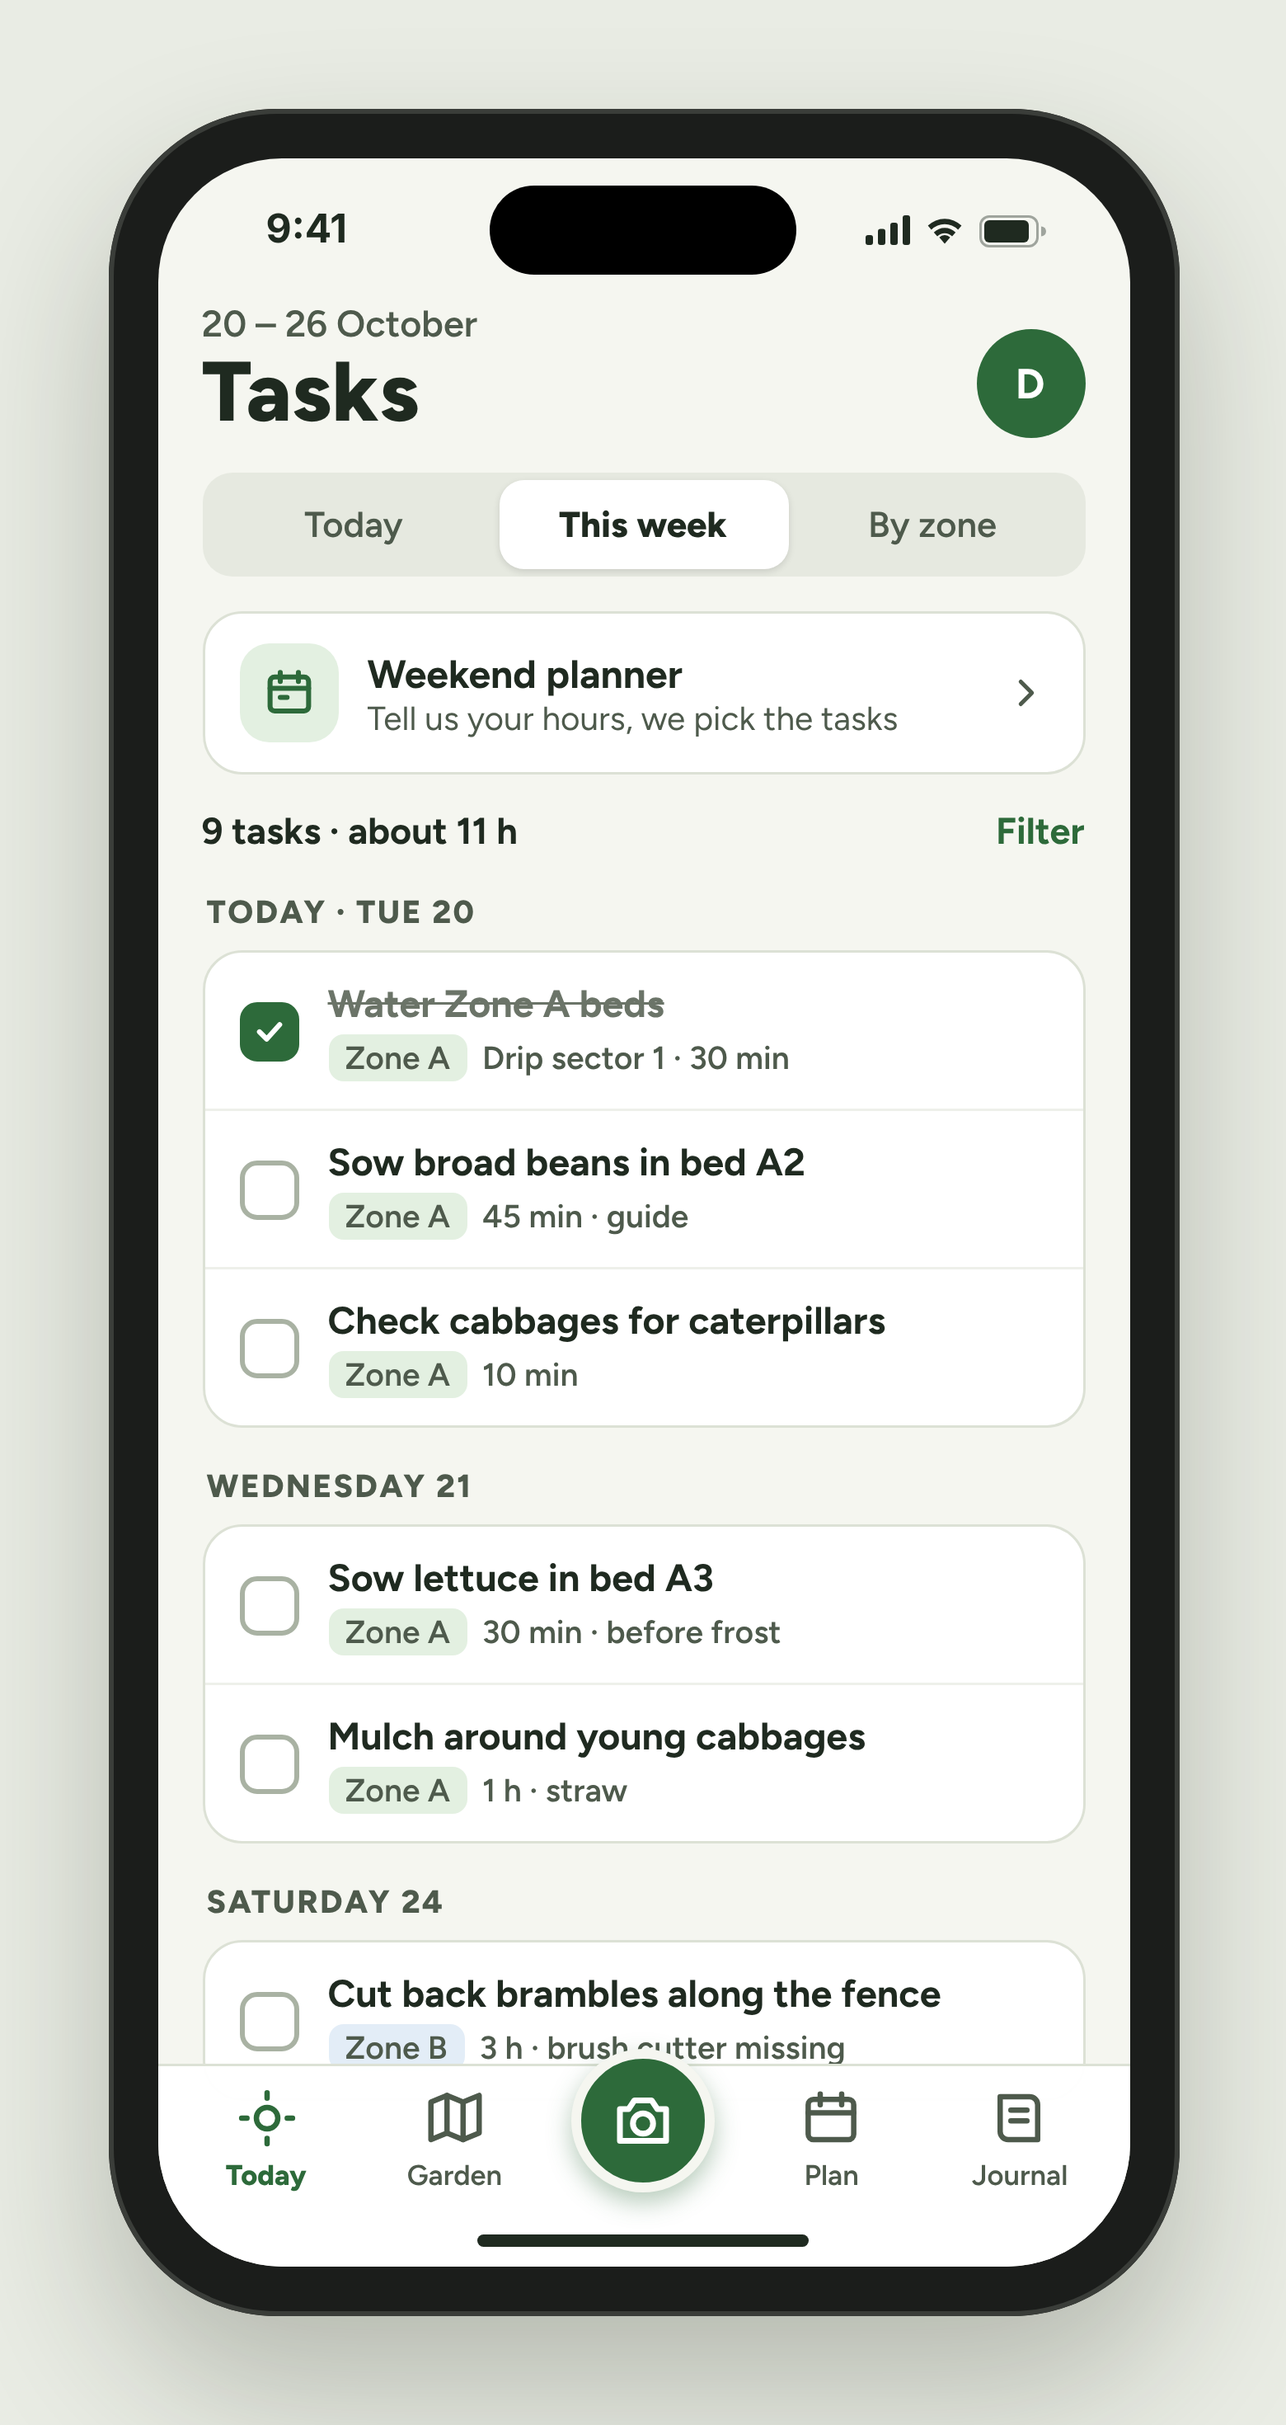
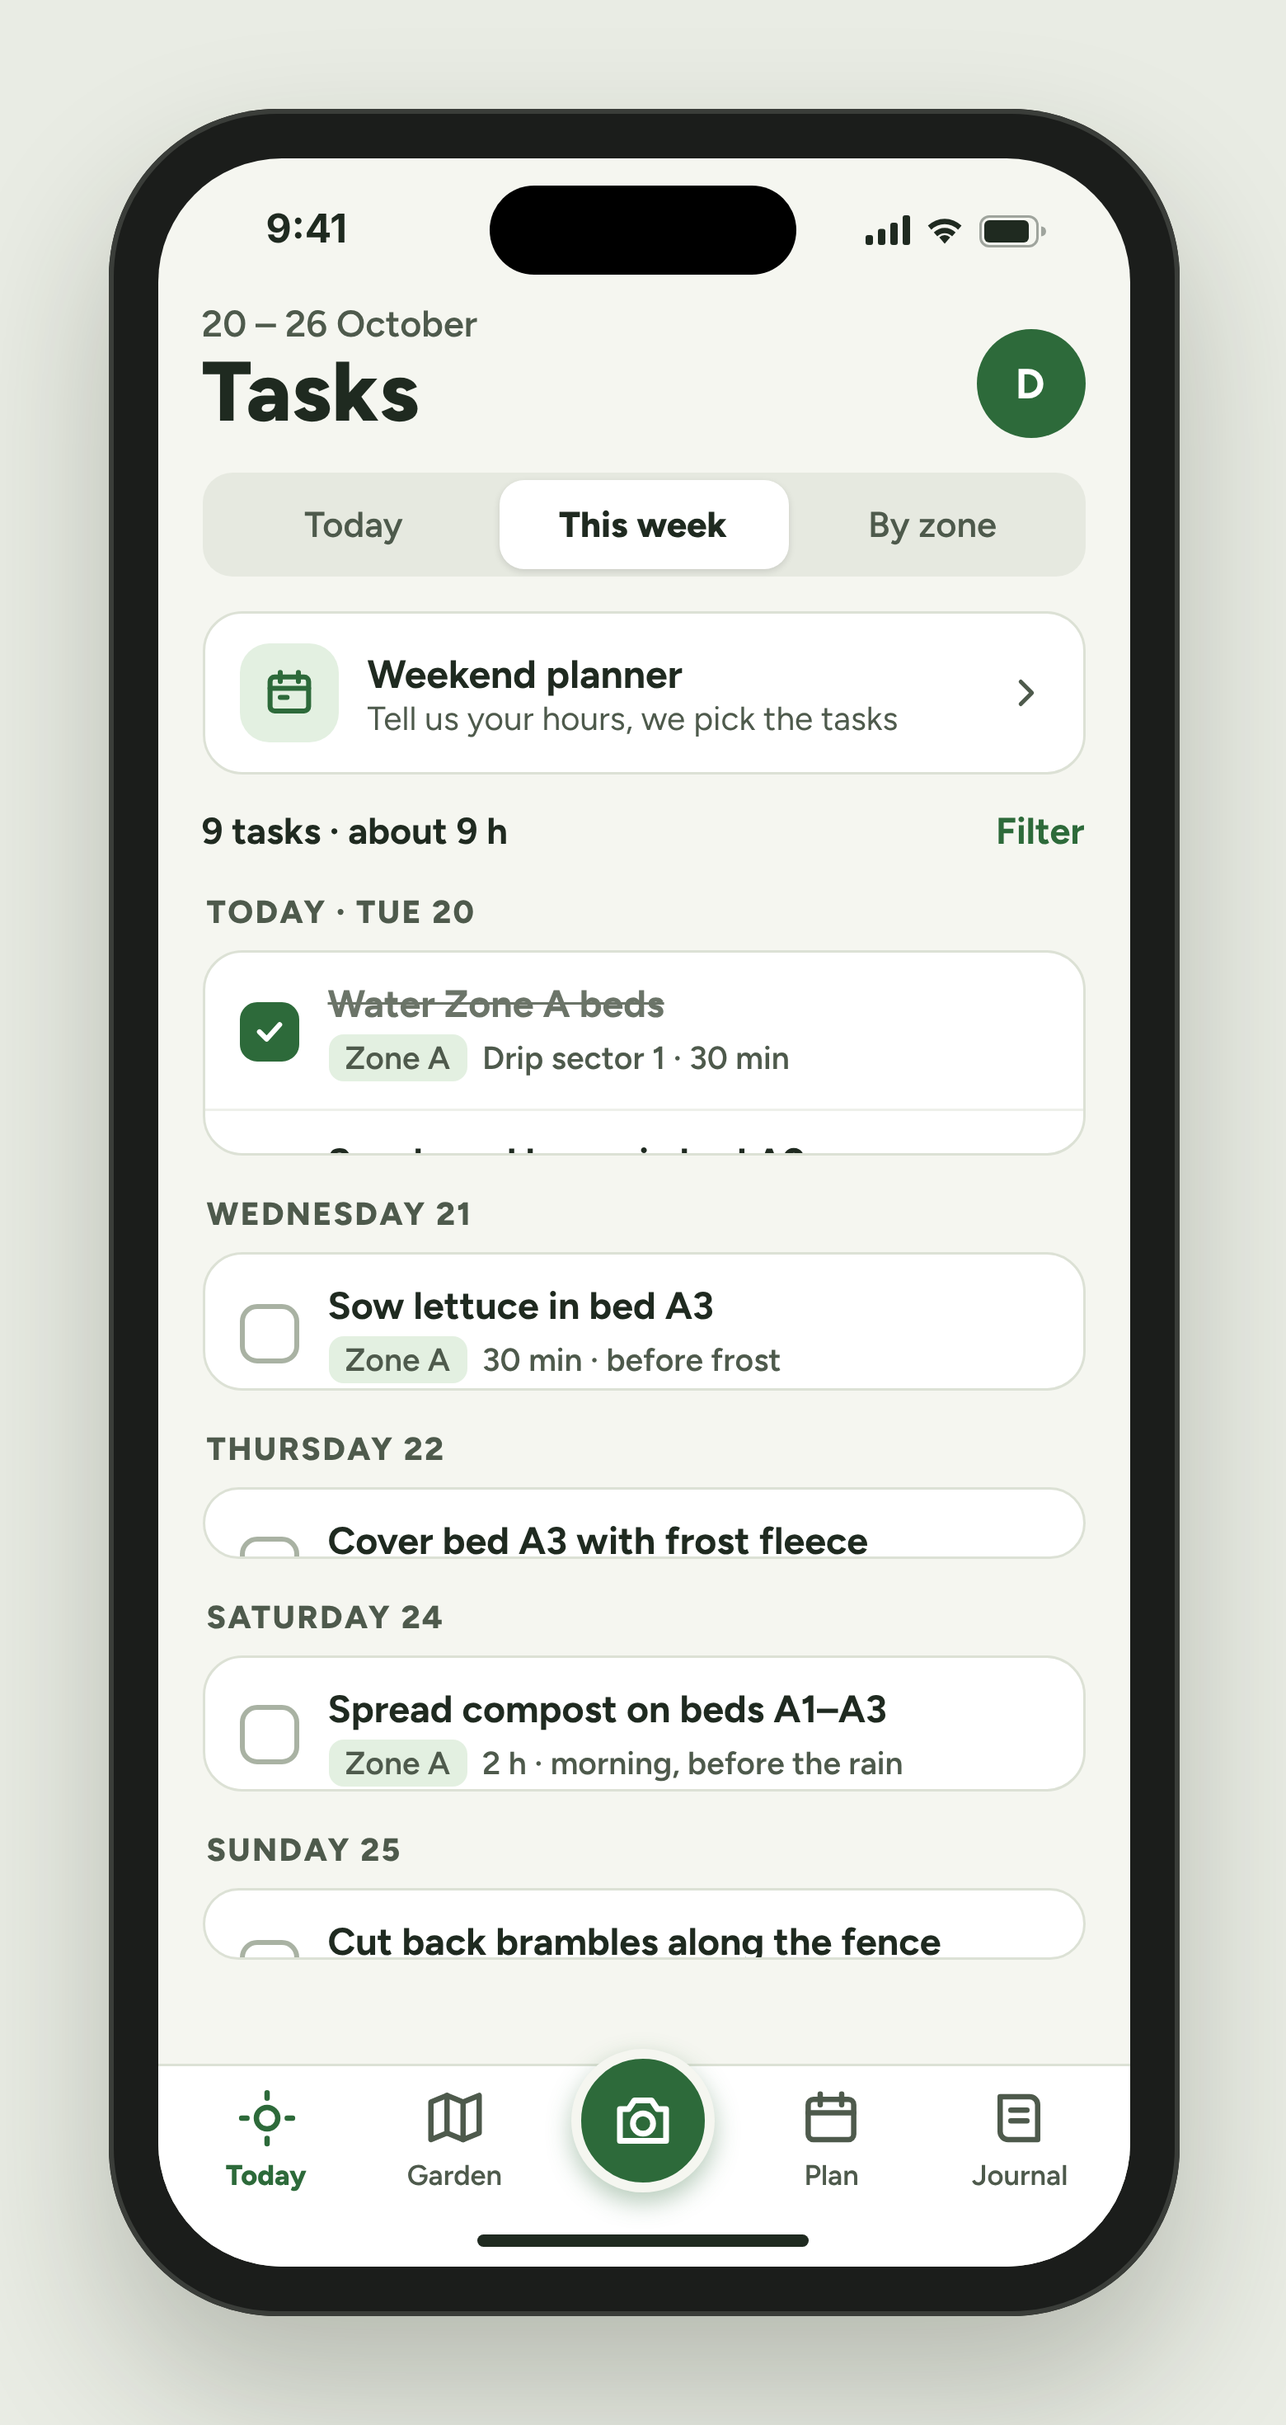
Design: B2 Tasks completed (full week, consistent with B4) with full-length render
Claude-Session: https://claude.ai/code/session_015NynAjU4naPZwzmeuGazot

Changed region(s): [[0.1538, 0.4643, 0.7385, 0.8667], [0.3692, 0.3405, 0.4, 0.3714]]

diff --git a/design/source/B2-tasks-full.html b/design/source/B2-tasks-full.html
@@ -1,0 +1,126 @@
+<!doctype html>
+<html lang="en">
+<head>
+<meta charset="utf-8">
+<title>B2 Tasks</title>
+<link href="https://fonts.googleapis.com/css2?family=Figtree:wght@400;500;600;700;800&display=swap" rel="stylesheet">
+<link rel="stylesheet" href="frame.css">
+<style>
+  .content { position: absolute; top: 54px; left: 0; right: 0; bottom: 0; padding: 4px 18px 0; display: flex; flex-direction: column; gap: 16px; overflow: hidden; }
+  .head { display: flex; justify-content: space-between; align-items: flex-end; }
+  .date { font-size: 15px; font-weight: 600; color: var(--muted); }
+  h1 { margin: 0; font-size: 34px; font-weight: 800; line-height: 1.1; }
+  .avatar { width: 44px; height: 44px; border-radius: 999px; background: var(--green); color: #fff; display: flex; align-items: center; justify-content: center; font-size: 17px; font-weight: 700; }
+  .card { background: #fff; border: 1px solid var(--line); border-radius: 16px; padding: 14px 16px; }
+  .weather { display: flex; align-items: center; gap: 14px; }
+  .alert { background: var(--orange-soft); border: 1px solid #F3C99A; border-radius: 16px; padding: 14px 16px; display: flex; flex-direction: column; gap: 8px; }
+  .alert .t { font-size: 16px; font-weight: 700; color: #7A3A08; display: flex; gap: 10px; align-items: center; }
+  .alert p { margin: 0; font-size: 14.5px; color: #5C3A1A; line-height: 1.45; }
+  .alert .go { align-self: flex-start; background: var(--orange); color: #fff; font-size: 15px; font-weight: 700; padding: 0 16px; height: 44px; border-radius: 11px; display: flex; align-items: center; }
+  .sec { display: flex; justify-content: space-between; align-items: baseline; }
+  h2 { margin: 0; font-size: 21px; font-weight: 800; }
+  .link { font-size: 15px; font-weight: 700; color: var(--green); }
+  .chip { font-size: 12.5px; font-weight: 700; padding: 3px 9px; border-radius: 999px; }
+  .meta { font-size: 13px; font-weight: 600; color: var(--muted); }
+  .action { display: flex; flex-direction: column; gap: 9px; }
+  .action .title { font-size: 17px; font-weight: 700; line-height: 1.3; }
+  .action .sub { font-size: 14px; color: var(--muted); line-height: 1.45; }
+  .btns { display: flex; gap: 10px; }
+  .btns .btn { height: 44px; font-size: 15px; border-radius: 11px; }
+  .tab { position: absolute; left: 0; right: 0; bottom: 0; z-index: 40; background: rgba(255,255,255,.97); border-top: 1px solid var(--line); padding: 8px 6px 30px; display: grid; grid-template-columns: repeat(5, minmax(0, 1fr)); align-items: end; }
+  .tab a { color: var(--muted); display: flex; flex-direction: column; align-items: center; gap: 3px; font-size: 11.5px; font-weight: 600; }
+  .tab a.on { color: var(--green); font-weight: 800; }
+  .tab .cam { width: 58px; height: 58px; border-radius: 999px; background: var(--green); display: flex; align-items: center; justify-content: center; margin: -26px auto 0; border: 4px solid var(--bg); box-shadow: 0 4px 10px rgba(45,106,58,.35); }
+
+  .nav { display: flex; align-items: center; gap: 8px; height: 48px; }
+  .back { width: 44px; height: 44px; border-radius: 999px; display: flex; align-items: center; justify-content: center; margin-left: -10px; }
+  .ntitle { flex: 1; text-align: center; font-size: 17px; font-weight: 700; }
+  .nright { width: 44px; display: flex; justify-content: flex-end; font-size: 16px; font-weight: 700; color: var(--green); }
+  .seg { display: grid; grid-template-columns: repeat(3, minmax(0, 1fr)); background: #E6E9E0; border-radius: 12px; padding: 3px; }
+  .seg span { height: 36px; display: flex; align-items: center; justify-content: center; border-radius: 10px; font-size: 14.5px; font-weight: 600; color: var(--muted); }
+  .seg span.on { background: #fff; color: var(--text); font-weight: 800; box-shadow: 0 1px 3px rgba(0,0,0,.12); }
+  .day { font-size: 13px; font-weight: 800; text-transform: uppercase; letter-spacing: .06em; color: var(--muted); margin: 2px 2px -6px; }
+  .list { background: #fff; border: 1px solid var(--line); border-radius: 16px; overflow: hidden; }
+  .item { display: flex; gap: 12px; align-items: center; padding: 11px 14px; border-bottom: 1px solid #EEF0EA; min-height: 58px; }
+  .item:last-child { border-bottom: none; }
+  .box { width: 24px; height: 24px; border-radius: 7px; border: 2px solid #A9B2A3; flex: none; display: flex; align-items: center; justify-content: center; }
+  .box.done { background: var(--green); border-color: var(--green); }
+  .it { flex: 1; min-width: 0; display: flex; flex-direction: column; gap: 3px; }
+  .it b { font-size: 15.5px; font-weight: 700; }
+  .it span { font-size: 13px; color: var(--muted); font-weight: 600; }
+  .zc { font-size: 11.5px; font-weight: 800; padding: 2px 7px; border-radius: 6px; }
+  .za { background: var(--green-soft); color: var(--green-ink); }
+  .zb { background: var(--blue-soft); color: var(--blue-ink); }
+  .zcc { background: #F1E7DA; color: #6A4317; }
+  .row { display: flex; align-items: center; gap: 10px; }
+  .label { font-size: 13px; font-weight: 800; text-transform: uppercase; letter-spacing: .06em; color: var(--muted); }
+  .kv { display: grid; grid-template-columns: repeat(3, minmax(0, 1fr)); gap: 8px; }
+  .kv div { background: #fff; border: 1px solid var(--line); border-radius: 14px; padding: 10px 12px; }
+  .kv b { display: block; font-size: 15.5px; font-weight: 800; }
+  .kv span { font-size: 12.5px; color: var(--muted); font-weight: 600; }
+  .bottom { position: absolute; left: 0; right: 0; bottom: 0; z-index: 30; background: rgba(245,246,240,.97); border-top: 1px solid var(--line); padding: 12px 18px 34px; display: flex; flex-direction: column; gap: 10px; }
+</style>
+<style>.stage{height:1340px}.phone{height:1280px}.screen{height:1240px}</style>
+</head>
+<body>
+<div class="stage"><div class="phone"><div class="screen">
+  <div class="island"></div>
+  <div class="status">
+    <span>9:41</span>
+    <span class="icons">
+      <svg width="18" height="12" viewBox="0 0 18 12"><rect x="0" y="8" width="3" height="4" rx="1" fill="#1F2A20"/><rect x="5" y="5.5" width="3" height="6.5" rx="1" fill="#1F2A20"/><rect x="10" y="3" width="3" height="9" rx="1" fill="#1F2A20"/><rect x="15" y="0" width="3" height="12" rx="1" fill="#1F2A20"/></svg>
+      <svg width="16" height="12" viewBox="0 0 16 12"><path d="M8 11.5l2.2-2.6a3.2 3.2 0 0 0-4.4 0z" fill="#1F2A20"/><path d="M3.6 6.9a6.3 6.3 0 0 1 8.8 0l-1.4 1.6a4.2 4.2 0 0 0-6 0z" fill="#1F2A20"/><path d="M1.2 4.2a9.7 9.7 0 0 1 13.6 0l-1.4 1.6a7.6 7.6 0 0 0-10.8 0z" fill="#1F2A20"/></svg>
+      <svg width="27" height="13" viewBox="0 0 27 13"><rect x="0.5" y="0.5" width="23" height="12" rx="3.5" fill="none" stroke="#1F2A20" opacity=".4"/><rect x="2" y="2" width="18" height="9" rx="2" fill="#1F2A20"/><path d="M25 4.5v4a2 2 0 0 0 0-4z" fill="#1F2A20" opacity=".4"/></svg>
+    </span>
+  </div>
+
+
+  <div class="content" style="gap: 14px">
+    <div class="head">
+      <div><div class="date">20 – 26 October</div><h1>Tasks</h1></div>
+      <div class="avatar">D</div>
+    </div>
+    <div class="seg"><span>Today</span><span class="on">This week</span><span>By zone</span></div>
+    <div class="card" style="display: flex; align-items: center; gap: 12px; padding: 12px 14px">
+      <div style="width: 40px; height: 40px; border-radius: 12px; background: var(--green-soft); display: flex; align-items: center; justify-content: center"><svg width="22" height="22" viewBox="0 0 24 24" fill="none" stroke="#2D6A3A" stroke-width="2.2" stroke-linecap="round" stroke-linejoin="round"><rect x="3.5" y="5" width="17" height="15" rx="2"/><path d="M3.5 10h17M8 3v4M16 3v4M8 14h3"/></svg></div>
+      <div style="flex: 1"><div style="font-size: 16px; font-weight: 700">Weekend planner</div><div style="font-size: 13.5px; color: var(--muted)">Tell us your hours, we pick the tasks</div></div>
+      <svg width="18" height="18" viewBox="0 0 24 24" fill="none" stroke="#4E5A4C" stroke-width="2.2" stroke-linecap="round" stroke-linejoin="round"><path d="M9 6l6 6-6 6"/></svg>
+    </div>
+    <div class="row" style="justify-content: space-between"><span style="font-size: 15px; font-weight: 700">9 tasks · about 9 h</span><span class="link">Filter</span></div>
+    <div class="day">Today · Tue 20</div>
+    <div class="list">
+      <div class="item"><div class="box done"><svg width="14" height="14" viewBox="0 0 24 24" fill="none" stroke="#fff" stroke-width="3.5" stroke-linecap="round" stroke-linejoin="round"><path d="M5 12l5 5 9-10"/></svg></div><div class="it"><b style="color: #6B7468; text-decoration: line-through">Water Zone A beds</b><span class="row" style="gap: 6px"><span class="zc za">Zone A</span>Drip sector 1 · 30 min</span></div></div>
+      <div class="item"><div class="box"></div><div class="it"><b>Sow broad beans in bed A2</b><span class="row" style="gap: 6px"><span class="zc za">Zone A</span>45 min · guide</span></div></div>
+      <div class="item"><div class="box"></div><div class="it"><b>Check cabbages for caterpillars</b><span class="row" style="gap: 6px"><span class="zc za">Zone A</span>10 min</span></div></div>
+    </div>
+    <div class="day">Wednesday 21</div>
+    <div class="list">
+      <div class="item"><div class="box"></div><div class="it"><b>Sow lettuce in bed A3</b><span class="row" style="gap: 6px"><span class="zc za">Zone A</span>30 min · before frost</span></div></div>
+      <div class="item"><div class="box"></div><div class="it"><b>Mulch around young cabbages</b><span class="row" style="gap: 6px"><span class="zc za">Zone A</span>1 h · straw</span></div></div>
+    </div>
+    <div class="day">Thursday 22</div>
+    <div class="list">
+      <div class="item"><div class="box"></div><div class="it"><b>Cover bed A3 with frost fleece</b><span class="row" style="gap: 6px"><span class="zc za">Zone A</span>15 min · before sunset</span></div></div>
+    </div>
+    <div class="day">Saturday 24</div>
+    <div class="list">
+      <div class="item"><div class="box"></div><div class="it"><b>Spread compost on beds A1–A3</b><span class="row" style="gap: 6px"><span class="zc za">Zone A</span>2 h · morning, before the rain</span></div></div>
+      <div class="item"><div class="box"></div><div class="it"><b>Buy a brush cutter</b><span class="row" style="gap: 6px"><span class="zc zb">Zone B</span>needed Sunday</span></div></div>
+    </div>
+    <div class="day">Sunday 25</div>
+    <div class="list">
+      <div class="item"><div class="box"></div><div class="it"><b>Cut back brambles along the fence</b><span class="row" style="gap: 6px"><span class="zc zb">Zone B</span>3 h · brush cutter missing</span></div></div>
+    </div>
+    <div style="height: 110px; flex: none"></div>
+  </div>
+  <nav class="tab">
+    <a class="on"><svg width="26" height="26" viewBox="0 0 24 24" fill="none" stroke="currentColor" stroke-width="2" stroke-linecap="round" stroke-linejoin="round"><circle cx="12" cy="12" r="4"/><path d="M12 2.5v2M12 19.5v2M2.5 12h2M19.5 12h2"/></svg>Today</a>
+    <a><svg width="26" height="26" viewBox="0 0 24 24" fill="none" stroke="currentColor" stroke-width="2" stroke-linecap="round" stroke-linejoin="round"><path d="M3 6l6-2.5 6 2.5 6-2.5v14l-6 2.5-6-2.5-6 2.5z"/><path d="M9 3.5v14M15 6v14"/></svg>Garden</a>
+    <div><div class="cam"><svg width="28" height="28" viewBox="0 0 24 24" fill="none" stroke="#fff" stroke-width="2" stroke-linecap="round" stroke-linejoin="round"><path d="M4 8h3l2-3h6l2 3h3v11H4z"/><circle cx="12" cy="13" r="3.5"/></svg></div></div>
+    <a><svg width="26" height="26" viewBox="0 0 24 24" fill="none" stroke="currentColor" stroke-width="2" stroke-linecap="round" stroke-linejoin="round"><rect x="3.5" y="5" width="17" height="15" rx="2"/><path d="M3.5 10h17M8 3v4M16 3v4"/></svg>Plan</a>
+    <a><svg width="26" height="26" viewBox="0 0 24 24" fill="none" stroke="currentColor" stroke-width="2" stroke-linecap="round" stroke-linejoin="round"><path d="M5 4h11a3 3 0 0 1 3 3v13H8a3 3 0 0 1-3-3z"/><path d="M9 9h6M9 13h6"/></svg>Journal</a>
+  </nav>
+  <div class="home"></div>
+</div></div></div>
+</body>
+</html>

diff --git a/design/source/B2-tasks.html b/design/source/B2-tasks.html
@@ -85,7 +85,7 @@
       <div style="flex: 1"><div style="font-size: 16px; font-weight: 700">Weekend planner</div><div style="font-size: 13.5px; color: var(--muted)">Tell us your hours, we pick the tasks</div></div>
       <svg width="18" height="18" viewBox="0 0 24 24" fill="none" stroke="#4E5A4C" stroke-width="2.2" stroke-linecap="round" stroke-linejoin="round"><path d="M9 6l6 6-6 6"/></svg>
     </div>
-    <div class="row" style="justify-content: space-between"><span style="font-size: 15px; font-weight: 700">9 tasks · about 11 h</span><span class="link">Filter</span></div>
+    <div class="row" style="justify-content: space-between"><span style="font-size: 15px; font-weight: 700">9 tasks · about 9 h</span><span class="link">Filter</span></div>
     <div class="day">Today · Tue 20</div>
     <div class="list">
       <div class="item"><div class="box done"><svg width="14" height="14" viewBox="0 0 24 24" fill="none" stroke="#fff" stroke-width="3.5" stroke-linecap="round" stroke-linejoin="round"><path d="M5 12l5 5 9-10"/></svg></div><div class="it"><b style="color: #6B7468; text-decoration: line-through">Water Zone A beds</b><span class="row" style="gap: 6px"><span class="zc za">Zone A</span>Drip sector 1 · 30 min</span></div></div>
@@ -97,10 +97,20 @@
       <div class="item"><div class="box"></div><div class="it"><b>Sow lettuce in bed A3</b><span class="row" style="gap: 6px"><span class="zc za">Zone A</span>30 min · before frost</span></div></div>
       <div class="item"><div class="box"></div><div class="it"><b>Mulch around young cabbages</b><span class="row" style="gap: 6px"><span class="zc za">Zone A</span>1 h · straw</span></div></div>
     </div>
+    <div class="day">Thursday 22</div>
+    <div class="list">
+      <div class="item"><div class="box"></div><div class="it"><b>Cover bed A3 with frost fleece</b><span class="row" style="gap: 6px"><span class="zc za">Zone A</span>15 min · before sunset</span></div></div>
+    </div>
     <div class="day">Saturday 24</div>
+    <div class="list">
+      <div class="item"><div class="box"></div><div class="it"><b>Spread compost on beds A1–A3</b><span class="row" style="gap: 6px"><span class="zc za">Zone A</span>2 h · morning, before the rain</span></div></div>
+      <div class="item"><div class="box"></div><div class="it"><b>Buy a brush cutter</b><span class="row" style="gap: 6px"><span class="zc zb">Zone B</span>needed Sunday</span></div></div>
+    </div>
+    <div class="day">Sunday 25</div>
     <div class="list">
       <div class="item"><div class="box"></div><div class="it"><b>Cut back brambles along the fence</b><span class="row" style="gap: 6px"><span class="zc zb">Zone B</span>3 h · brush cutter missing</span></div></div>
     </div>
+    <div style="height: 110px; flex: none"></div>
   </div>
   <nav class="tab">
     <a class="on"><svg width="26" height="26" viewBox="0 0 24 24" fill="none" stroke="currentColor" stroke-width="2" stroke-linecap="round" stroke-linejoin="round"><circle cx="12" cy="12" r="4"/><path d="M12 2.5v2M12 19.5v2M2.5 12h2M19.5 12h2"/></svg>Today</a>
